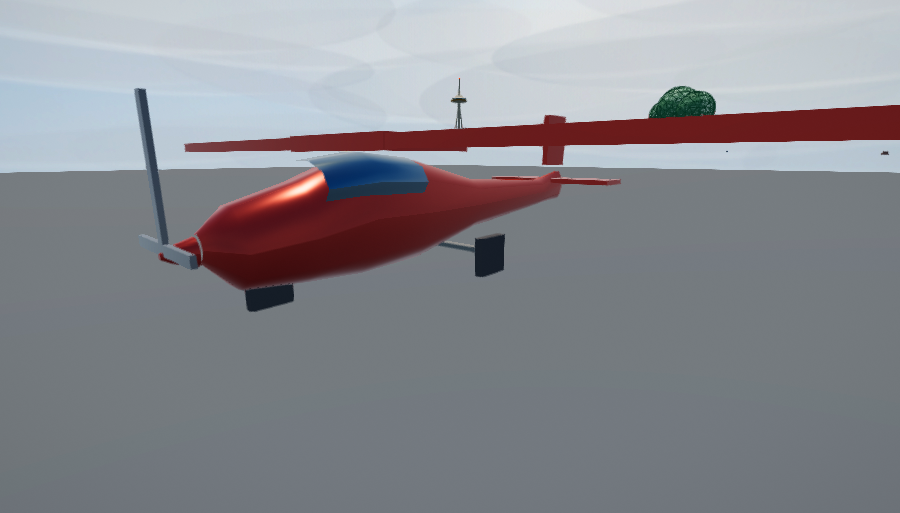
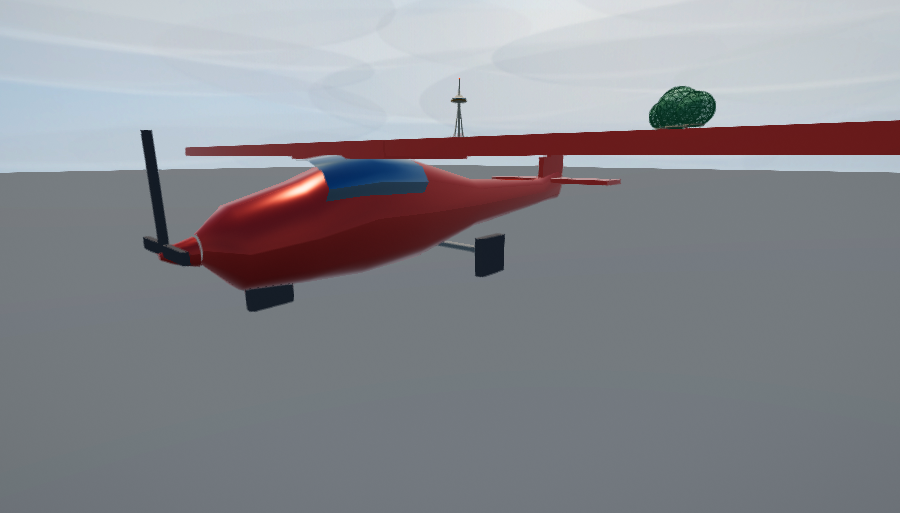
Auto: the runway pointed 60 degrees away from its own markings
Two rotation conventions meet in the airfield and they disagree in the
sign of x: landmark box() rotates a THREE mesh (rotation.y = t maps local
+z to (sin t, cos t)) while build.js box() maps local +z to (-sin t,
cos t). Every offset helper here was derived from the second convention
and every slab was rotated with the first, so the 3 km runway lay along
bearing 210 under the un-graded hillside while its markings ran along 150
on the graded strip -- present, raycastable at its midpoint (which lies on
both bearings), and invisible everywhere else. That is why the judge saw
centreline bars floating on grass.

The axes are now spelled out as vectors (ALONG = bearing 150, ACROSS = 90
right of it) in the landmark, the spawner, and the tree-exclusion rect --
no trig shorthand, no third convention.

Also from the judge: asphalt lightened to shade like the world's roads
instead of reading as holes (0x3f4246 -> 0x53565b), the wing sits ON the
cabin roof (sunk 8 cm; the root bridged the halves but hovered), the fin
is a stepped two-box taper instead of one slab, and the prop is shorter,
near-black and in matte where its colour is honoured.

verify.mjs 0 exceptions.

Claude-Session: https://claude.ai/code/session_01V56RnrzLsQEVAyY6wa5w7B

Changed region(s): [[0.1244, 0.1559, 1.0, 0.5302]]

diff --git a/apps/auto/src/vehicles.js b/apps/auto/src/vehicles.js
@@ -2878,11 +2878,14 @@ function buildPlane(spec, paint, trim, matte) {
   // one continuous span: two halves plus a root section bridging the cabin
   // roof -- without the root the wing floats as two detached planks
   for (const sd of [-1, 1]) {
-    paint.box(sd * 3.30, 2.21, 1.60, 4.6, 0.18, 1.50, 0, WHITE);
+    paint.box(sd * 3.30, 2.13, 1.60, 4.6, 0.18, 1.50, 0, WHITE);
   }
-  paint.box(0, 2.19, 1.60, 2.1, 0.22, 1.56, 0, WHITE);
+  paint.box(0, 2.09, 1.60, 2.1, 0.22, 1.56, 0, WHITE);
   // tail: fin and stabiliser
-  paint.box(0, 1.92, -half + 0.42, 0.12, 1.12, 0.80, 0, WHITE);
+  // stepped taper: two boxes, the upper shorter and set back, which is as
+  // close to a swept fin as an axis-aligned box gets
+  paint.box(0, 1.50, -half + 0.50, 0.12, 0.62, 0.95, 0, WHITE);
+  paint.box(0, 2.10, -half + 0.34, 0.10, 0.55, 0.60, 0, WHITE);
   paint.box(0, 1.52, -half + 0.40, 3.0, 0.10, 0.80, 0, WHITE);
   // windscreen and side glazing
   trim.loft([
@@ -2891,8 +2894,8 @@ function buildPlane(spec, paint, trim, matte) {
     ring(half - 2.95, 0.64, 0.36, 1.76),
   ], [0.16, 0.2, 0.24], { capStart: true, capEnd: true });
   // prop: two blades + spinner, in trim so main.js can spin the group later
-  trim.box(0, 1.12, half + 0.30, 0.13, 1.62, 0.06, 0, [0.12, 0.12, 0.13]);
-  trim.box(0, 1.12, half + 0.30, 1.62, 0.13, 0.06, 0, [0.12, 0.12, 0.13]);
+  matte.box(0, 1.12, half + 0.30, 0.13, 1.25, 0.06, 0, [0.09, 0.09, 0.10]);
+  matte.box(0, 1.12, half + 0.30, 1.25, 0.13, 0.06, 0, [0.09, 0.09, 0.10]);
   paint.loft([
     ring(half + 0.02, 0.17, 0.17, 1.12),
     ring(half + 0.24, 0.10, 0.10, 1.12),

diff --git a/apps/auto/src/landmarks.js b/apps/auto/src/landmarks.js
@@ -399,11 +399,19 @@ function aquarium() {
  */
 function airport() {
   const g = new THREE.Group();
-  const asphalt = M(0x3f4246);
+  const asphalt = M(0x53565b);
   const paintW = new THREE.MeshBasicMaterial({ color: 0xe8e8e2 });
-  const RY = -0.52;
-  const c = Math.cos(RY), sn = Math.sin(RY);
-  const off = (dx, dz) => [dx * c - dz * sn, dx * sn + dz * c];
+  // Axes SPELLED OUT, because two rotation conventions meet here and they
+  // disagree in the sign of x. landmark box() rotates a THREE mesh: its
+  // rotation.y = t maps local +z to (sin t, cos t). build.js's box() maps
+  // local +z to (-sin t, cos t). A helper derived from the wrong one laid the
+  // whole 3 km runway along bearing 210 instead of 150 -- present, raycastable,
+  // and buried under the un-graded hillside 60 degrees away from its markings.
+  // ALONG is the runway direction (bearing 150), ACROSS is 90 right of it.
+  const RY = 0.52;                       // THREE rotation.y: sin/cos = (0.497, 0.868)
+  const ALONG = [Math.sin(RY), Math.cos(RY)];
+  const ACROSS = [Math.cos(RY), -Math.sin(RY)];
+  const off = (dx, dz) => [dx * ACROSS[0] + dz * ALONG[0], dx * ACROSS[1] + dz * ALONG[1]];
   // The landmark's origin sits at the terrain height of ONE point, and the
   // field undulates a metre and a half over its 3 km. A single flat slab is
   // therefore always part buried and part plinth -- both were built and both

diff --git a/apps/auto/src/main.js b/apps/auto/src/main.js
@@ -445,11 +445,12 @@ function installHeightFog() {
   {
     const ap = (G.LANDMARKS || []).find((l) => l.kind === 'airport');
     if (ap) {
-      const RY = -0.52, c = Math.cos(RY), sn = Math.sin(RY);
-      const off = (dx, dz) => [ap.x + dx * c - dz * sn, ap.z + dx * sn + dz * c];
+      // Same explicit axes as the landmark: ALONG = runway bearing 150.
+      const AL = [Math.sin(0.52), Math.cos(0.52)], AC = [Math.cos(0.52), -Math.sin(0.52)];
+      const off = (dx, dz) => [ap.x + dx * AC[0] + dz * AL[0], ap.z + dx * AC[1] + dz * AL[1]];
       for (let i = 0; i < 3; i++) {
         const [px, pz] = off(-195, -60 + i * 95);
-        const v = traffic.spawnAt(px, pz, RY + Math.PI / 2, 'plane', 0xdfe3e6, 'apron');
+        const v = traffic.spawnAt(px, pz, 0.52, 'plane', 0xdfe3e6, 'apron');
         v.vLong = 0;
       }
     }

diff --git a/apps/auto/src/world.js b/apps/auto/src/world.js
@@ -1791,12 +1791,14 @@ export class World {
   inAirfield(x, z) {
     if (this._airfield === undefined) {
       const ap = (G.LANDMARKS || []).find((l) => l.kind === 'airport');
-      this._airfield = ap ? { x: ap.x, z: ap.z, c: Math.cos(-0.52), s: Math.sin(-0.52) } : null;
+      // explicit runway axes (bearing 150): along (0.497, 0.868), across
+      // (0.868, -0.497) -- see the landmark for why no trig shorthand
+      this._airfield = ap ? { x: ap.x, z: ap.z } : null;
     }
     const a = this._airfield;
     if (!a) return false;
     const dx = x - a.x, dz = z - a.z;
-    const lx = dx * a.c - dz * a.s, lz = dx * a.s + dz * a.c;
+    const lx = dx * 0.868 - dz * 0.497, lz = dx * 0.497 + dz * 0.868;
     return Math.abs(lx) < 520 && Math.abs(lz) < 1680;
   }
 
